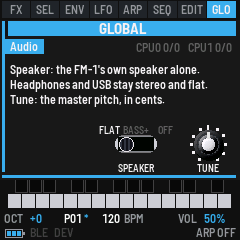
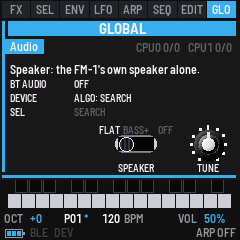
Docs: Bluetooth audio, PROX on headphones, one MIDI link at a time, the FX bus on CPU1; v0.9's draft notes, the own-stack patch

Changed region(s): [[0.0292, 0.3208, 0.875, 0.4958]]

diff --git a/docs/MANUAL.md b/docs/MANUAL.md
@@ -5,7 +5,7 @@ and a sub, a ring modulator and noise. The filter is Classic (low, band or high 
 diode ladder), with drive and distortion. It has a mod envelope, an amp envelope, two LFOs, the Bass Station II's 32
 arp rhythms with its 32-step sequencer (four sequences) and 128 named patches, as many as a Bass Station II holds. Patches go to and from a Bass Station II editor as SysEx. Everything
 shows on the FM-1's screen as a small Bass Station II front panel. MIDI comes in over USB, Bluetooth and TRS, and
-goes out over USB and Bluetooth.
+goes out over USB and Bluetooth, and the sound can play through Bluetooth headphones or a speaker.
 
 A second instrument plays beside the synth: [Drum Something 400](#s6), 13 drums with their own sequencer and songs. A third, [Piano Something 368X](#rmi), is an electric piano, and [Space Something 201](#echo) is a tape echo and spring reverb that all three can send into.
 
@@ -1110,8 +1110,8 @@ firmware's version (VERSION v0.8). The on/off settings are slide switches.
 On every GLO page, the right of the page's own bar shows the audio's load (for a moment after a change, what changed
 instead), for example **CPU0 34/41**. The first number is the
 load now, as a percentage of the time the FM-1 has to make each block of sound. The second is the highest it reached
-in the last five seconds. **CPU1** under it is the FM-1's second core, which makes the Piano Something's sound
-beside the first (**CPU1 OFF**: one core is doing it all). If the sound ever misses its deadline (a dropout, heard as
+in the last five seconds. **CPU1** under it is the FM-1's second core, which makes the Piano Something's sound and
+runs the Space Echo, its spring reverb and the drums' room beside the first (**CPU1 OFF**: one core is doing it all). If the sound ever misses its deadline (a dropout, heard as
 a click), a count follows in cyan, for example **CPU0 97/100 !2**, and stays until the FM-1 is switched off. A click without the count going up came
 from something else. A write to memory (SAVE, a patch change, and the sequence and GLO settings keeping themselves) holds
 up the sound for a moment. In silence nothing is heard and it isn't counted; while something is sounding, it counts.
@@ -1120,7 +1120,7 @@ up the sound for a moment. In silence nothing is heard and it isn't counted; whi
 ![GLO CONNECT: how Bluetooth and USB stand (a keyboard connected), then the USB Host, Bluetooth and AT Out switches](img/screen-glo-connect.png "GLO, again: CONNECT")
 ![GLO CLOCK: the tempo 120 on the display and what the clock is doing, then the Tempo knob, the Send Clk switch and the Sync knob](img/screen-glo-clock.png "GLO, again: CLOCK")
 ![GLO KEYS: what each does, then the Velocity and Knobs knobs, the Local switch and the Route knob](img/screen-glo-keys.png "GLO, again: KEYS")
-![GLO AUDIO: what the speaker's setting reaches, then the Speaker switch and the Tune knob](img/screen-glo-audio.png "GLO, again: AUDIO")
+![GLO AUDIO: the Bluetooth audio's state, the device ALGO has picked and what SEL does, then the Speaker switch and the Tune knob](img/screen-glo-audio.png "GLO, again: AUDIO")
 ![GLO DISPLAY: what the pop-ups are, then the Knob Zoom switch, the Hints switch and the Pop-ups knob](img/screen-glo-disp.png "GLO, again: DISPLAY")
 ![GLO DUMP: P01 on the display, then the All 128 button (FX) and the Sound button (SEL)](img/screen-glo-dump.png "GLO, again: DUMP (the last)")
 
@@ -1137,6 +1137,8 @@ Holding GLO for a second opens the RND pages, for the RND Synth: see RND Synth.
 | CLOCK | K1 TEMPO | The tempo, the same setting as ARP's K1, kept with the patch. While MIDI clock is followed, the knob shows the clock's tempo and turning it changes nothing. |
 | CLOCK | K3 SEND CLK (SEND MIDI CLOCK) | ON (the default): MIDI clock goes out at the tempo, and PLAY sends start and stop. Not while following MIDI clock. |
 | CLOCK | K4 SYNC (CLOCK SYNC) | What the arp and the sequencer follow. AUTO (the default): MIDI clock while it comes in, else the tempo. INT: the tempo only. EXT: MIDI clock only (without it they wait). While following, a MIDI start begins again from the first step. |
+| AUDIO | ALGO | Bluetooth audio: picks a device, the remembered ones first (the last one used at the top), then the ones a search found. With none listed, it searches (below). |
+| AUDIO | SEL | Bluetooth audio: connects the device ALGO picked, or hangs up while connected. With none listed, it searches. |
 | AUDIO | K3 SPEAKER | The FM-1's speaker, which only ever plays with nothing in the headphone jack. FLAT (the default): as it is. BASS+: the bass the small speaker cannot play, heard through its harmonics. OFF: the speaker silent. Headphones and USB audio stay as they are whatever this is set to: stereo, and with none of BASS+. |
 | AUDIO | K4 TUNE | The master tune, −50 to +50 cents (0 is the default). |
 | CONTROLS | K3 VELOCITY | The keys' velocity curve: SOFT (louder for a light touch), NORMAL (the default) or HARD. |
@@ -1255,6 +1257,10 @@ Connect next to the FM-1. On an iPad or iPhone, connect from a music app's Bluet
 of the screen lights while connected, and the GLO button pulses slowly while anything is connected over Bluetooth (a
 computer, a phone or a device).
 
+Bluetooth MIDI has one link at a time: a computer or phone connected to the FM-1, or a device the FM-1 connected to
+(below), not both. While one is connected, the other can't connect: disconnect it first. Bluetooth headphones or a
+speaker (Bluetooth audio, below) can be connected beside either.
+
 To switch Bluetooth off, press GLO twice for GLOBAL CONNECT and turn K3 (BLUETOOTH) to OFF: the FM-1 stops advertising and
 drops any connection. Turn it back to ON to switch it on again. It is kept for the next start.
 
@@ -1263,11 +1269,33 @@ advertising mode, then press GLO twice for GLOBAL CONNECT and press REC: the scr
 pick the device by its name, and press REC again to connect. DEV at the bottom lights while it's connected, GLOBAL
 CONNECT's Bluetooth line says Connected and its name, and the bottom line shows the last message it sent. Press REC once more (on GLOBAL CONNECT) to disconnect.
 
+### Bluetooth audio: headphones and speakers
+
+The FM-1 can play its sound through Bluetooth headphones or a Bluetooth speaker. Everything it plays goes there: the
+bass, the drums, the piano and the Space Echo, at MASTER's volume. While it streams, the FM-1's own speaker and headphone
+jack go quiet; USB audio to a computer carries on.
+
+1. Put the headphones or speaker in pairing mode.
+2. Press GLO five times for GLOBAL AUDIO, then press SEL or turn ALGO: the screen says BT AUDIO SEARCHING. The search takes about 10 seconds.
+3. Turn ALGO to pick the device by its name (Found), then press SEL to connect. The first time, it pairs.
+4. The BT audio line goes from Connecting through Setting up to Streaming, and the sound moves to the device.
+
+Press SEL again to hang up: the sound comes back to the FM-1. The FM-1 remembers the last four devices it played to.
+They come first when you turn ALGO (Known), the last one used at the top, so the next time it's SEL alone: no search,
+and the device doesn't need to be in pairing mode, only switched on. Bluetooth audio doesn't connect by itself at
+power-on; press SEL on GLOBAL AUDIO.
+
+As with any Bluetooth headphones, the sound arrives a moment late (a fraction of a second), so play the keys through the FM-1's
+own speaker or wired headphones when timing matters. The lines on GLOBAL AUDIO show where it stands: BT audio (Off,
+Searching, Found, None found, Connecting, Linked, Setting up, Streaming, Refused, Failed), the device ALGO has picked,
+and what SEL will do (connect, hang up or search).
+
 ### PROX: distance as a knob
 
 PROX turns one knob by how far a Bluetooth MIDI controller or phone is from the FM-1: touching it is the knob's
 lowest, arm's length its highest, a sweep between them the knob turning. It reads the strength of the Bluetooth link's
-signal, so anything connected works, a device the FM-1 joined (REC, above) first, else a computer or phone. It follows
+signal, so anything connected works: a device the FM-1 joined (REC, above) first, else a computer or phone, else
+Bluetooth headphones or a speaker (Bluetooth audio, above), so it can follow headphones on your head. It follows
 the controller or phone, not a hand: something passing between them barely moves it, and a shake only blurs it.
 
 On GLOBAL CONNECT (GLO twice), turn PRESET (PROX) to pick the knob, or OFF. It can turn the knobs the motion
@@ -1295,7 +1323,9 @@ The target and the calibration are kept with the settings, not the patch.
 To calibrate it to your controller and your reach, press SEL on GLOBAL CONNECT (PROX SWEEP NEAR TO FAR), sweep the
 controller a few times between touching the FM-1 and arm's length, at the speed you'll play it, then press SEL again:
 the screen shows the near and far it kept. Sweep rather than hold still: held out at arm's length, a body in the way
-reads farther than a sweep ever reaches. Uncalibrated it uses what an SP-1 read: -23 dBm touching, -50 at arm's length.
+reads farther than a sweep ever reaches. Uncalibrated it uses -23 dBm touching and -50 at arm's length, a guess
+that reaches only part of the range: calibrate it with what you'll use (an SP-1 reads about -8 sitting on the FM-1
+and -61 at arm's length). The dB on the Signal line are close to real dBm, not exact.
 
 The signal falls fastest in the first few inches, so PROX squares its reading to give the rest of the reach more of
 the knob: with an SP-1, 6 inches out reads about a third up instead of over half. It updates 50 times a second, smoothed over about a tenth of a second close in and a quarter at arm's length (where
@@ -1364,6 +1394,16 @@ receive and as its MIDI output to send.
 
 **The drums are too loud or too quiet against the synth:** turn the drums' MASTER (K2 on a drum page), or one drum's VOLUME (K3).
 
+**A Bluetooth MIDI device won't connect, or a computer can't find the FM-1:** Bluetooth MIDI has one link at a time.
+Disconnect the other one first: REC on GLOBAL CONNECT drops a device; disconnect the computer or phone from its own
+Bluetooth settings.
+
+**No sound from the FM-1's speaker or headphone jack:** Bluetooth audio is streaming to a device (GLOBAL AUDIO's BT
+audio line says Streaming). Press SEL on GLOBAL AUDIO to hang up.
+
+**Bluetooth headphones aren't found:** put them in pairing mode before the search, and search again (SEL or ALGO on
+GLOBAL AUDIO, with none listed). Headphones connected to a phone often don't answer: disconnect them from it first.
+
 **The installer doesn't find the FM-1:** use Chrome or Edge, allow MIDI when asked, and close other programs that use
 the FM-1's MIDI port. If it still isn't found, the installer lists the computer's other MIDI ports to try: a Mac can
 show the FM-1 under another name.
@@ -1386,6 +1426,9 @@ Bass Something 2 is by **John Brown** ([@imijes](https://github.com/imijes)), un
 - **Leo Kuroshita** ([@kurogedelic](https://github.com/kurogedelic), [Hügelton Instruments](https://hugelton.com)):
   Felucca, the firmware fm1-base grew from, and felucca-bsp, which it runs on. Used under MPL-2.0 with his permission.
 - **keremimo** ([@keremimo](https://github.com/keremimo)): MIDI clock and transport sync in felucca-bsp.
+- **Henri David** (Optimist): the Bluetooth stack this firmware runs, from the Bluetooth MIDI to the Bluetooth audio
+  (pairing, the audio link and its SBC encoder), written from the Bluetooth specifications. Used under MPL-2.0 (it
+  is offered under GPL-3.0 or MPL-2.0).
 - **Chris Farrell** ([@seajaysec](https://github.com/seajaysec)): from fm-static, the web installer's finding of an
   FM-1 under any port name, and its package and update checks. Used under MPL-2.0 with his permission.
 - **BS2-Web** by François Georgy ([francoisgeorgy/BS2-Web](https://github.com/francoisgeorgy/BS2-Web)): where each

diff --git a/docs/RELEASE_v0.9.md b/docs/RELEASE_v0.9.md
@@ -1,0 +1,30 @@
+# Bass Something 2 v0.9 (draft)
+
+Not released yet: this collects what's on `drum-something` since v0.8. The full guide is `docs/MANUAL.md`.
+
+## Bluetooth
+
+- **Bluetooth audio:** the FM-1's sound plays through Bluetooth headphones or a speaker. On GLOBAL AUDIO, ALGO picks a
+  device (the last four used first, then the ones a search found) and SEL connects it or hangs up. While it streams, the
+  FM-1's speaker and headphone jack go quiet; USB audio carries on.
+- **PROX follows headphones:** with no Bluetooth MIDI link, PROX reads the headphones' link, so the knob follows your
+  head.
+- **A new Bluetooth stack:** Henri David's, from Optimist, which brings Bluetooth audio. Bluetooth MIDI now has one link
+  at a time: a computer or phone, or a device the FM-1 connects to (REC on GLOBAL CONNECT), not both at once.
+  Headphones can be connected beside either. PROX's signal reads differently on it: calibrate PROX again (SEL on
+  GLOBAL CONNECT).
+
+## Sound
+
+- **More room for the sound:** the Space Echo, its spring reverb and the drums' room run on the FM-1's second core,
+  beside the piano. Everything at once (song mode, all three instruments, a runaway echo, the motion recorder) loads the
+  first core about 64% (was about 89%).
+
+## Screen
+
+- **The buttons light dimly where they do something** in the instrument you're playing, brightly while on.
+
+## Docs
+
+- The manual's HOME pictures are animated: each instrument's HOME with a knob's dive.
+- USB host mode gives no USB power: noted in the manual.

diff --git a/site/landing.md b/site/landing.md
@@ -3,7 +3,8 @@
 Bass Something 2 turns the M-VAVE FM-1 into a monosynth inspired by the Novation Bass Station II: two oscillators and a sub,
 ring modulation and noise, a Classic or Acid filter with drive, two envelopes, two LFOs, distortion, the Bass Station
 II's 32 arp rhythms with its 32-step sequencer (four sequences) and 32 patches. Patches go to and from a Bass Station II editor as SysEx, and
-MIDI comes in over USB, Bluetooth and TRS, and goes out over USB and Bluetooth.
+MIDI comes in over USB, Bluetooth and TRS, and goes out over USB and Bluetooth, and the sound can play through
+Bluetooth headphones or a speaker.
 
 A second instrument plays beside the synth: Drum Something 400, a drum machine inspired by the Sequential Circuits
 Drumtraks, with 13 synthesized drums, patterns, songs and MIDI out. A third, Piano Something 368X, is an electric piano

diff --git a/README.md b/README.md
@@ -38,11 +38,15 @@ Bass Something 2 builds in an [fm1-base](https://github.com/charlesvestal/fm1-ba
 - the host's xrun count, for tests;
 - felucca-bsp's EP0 fix (#28);
 - a Bluetooth link's signal strength for PROX (`plat_ble_rssi`; `platform/fm1-base-prox.patch`, its draft PR beside it).
+- on the own Bluetooth stack (fm1.toml `ble_stack = "own"`, `bt_audio = true`: Bluetooth MIDI and Bluetooth audio
+  from Optimist's stack), that signal for a MIDI link and for the headphones' link (`plat_ble_rssi`,
+  `plat_bta_rssi`; `platform/fm1-base-ownstack-rssi.patch`, after the PROX patch).
 
 From the fm1-base root:
 
     git apply bs2/platform/fm1-base.patch
     git apply bs2/platform/fm1-base-prox.patch
+    git apply bs2/platform/fm1-base-ownstack-rssi.patch
     git -C bsp apply ../bs2/platform/felucca-bsp.patch
 
 Then, from the repository root:
